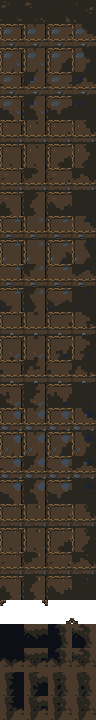
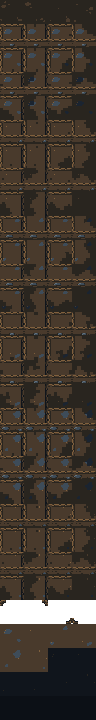
Make dungeon wall shading continuous across tile seams (#42)
Replace repeating directional cutouts with world-space contours sampling native PNG top, body and dark textures. Preserve angled coping and facades; compose walls at native resolution before fractional scaling to prevent hairline seams.

Re-record render.golden.json and render-calls.golden.json for the 20 intended sprite interior frames; all 85 other frames remain unchanged. Verify PNG texels, seam continuity, diagonal locality, fractional scaling, theme/toggle restoration and integrated build. Update art, rendering, testing and gameplay documentation.

Changed region(s): [[0.0, 0.8556, 1.0, 1.0]]

diff --git a/src/sprite-dungeon.ts b/src/sprite-dungeon.ts
@@ -3,7 +3,7 @@ import { tileRandom } from "./random.ts";
 import { themeAt, type TerrainTile } from "./themes.ts";
 import { kitImage } from "./sprite-kit.ts";
 import { wallAdjacencyMask } from "./area1-tileset.ts";
-import type { DungeonWallDepth } from "./wall-depth.ts";
+import { dungeonWallBands, type DungeonWallProfile } from "./wall-depth.ts";
 
 export const DUNGEON_MATERIALS = ["masonry", "stone", "earth"] as const;
 export type DungeonMaterial = typeof DUNGEON_MATERIALS[number];
@@ -24,7 +24,8 @@ export const DUNGEON_EDGE_ATLAS = "dungeon-edges";
 export const DUNGEON_BLEND_ATLAS = "dungeon-blends";
 export const DUNGEON_INFILL_ATLAS = "dungeon-infill";
 export const DUNGEON_CORE_FRAME = 12;
-export const DUNGEON_PADDING_FRAME = DUNGEON_CORNER_FRAME + 4;
+export const DUNGEON_CAP_FRAME = DUNGEON_CORNER_FRAME + 4;
+export const DUNGEON_SHADE_FRAME = DUNGEON_CAP_FRAME + DUNGEON_WALL_VARIANTS;
 
 /** Smooth, coordinate-hashed material patches, independent of generation
  * and its random stream. Both wall and floor at a position share material. */
@@ -101,26 +102,76 @@ export function drawDungeonFrame(c: CanvasRenderingContext2D, image: HTMLImageEl
   c.restore();
 }
 
+const wallImages = new Map<string, HTMLCanvasElement>();
+/** Compose at native resolution before scaling: clipping directly into a
+ * fractional-size ground cache can leave hairlines between pixel clusters. */
+export function drawDungeonGround(c: CanvasRenderingContext2D, tile: TerrainTile, diagonals: readonly DungeonDiagonal[] = [], profile?: DungeonWallProfile): boolean {
+  if (!tile.wall || !profile || profile.depth === 2 || typeof document === "undefined") return paintDungeonGround(c, tile, diagonals, profile);
+  const n = tile.neighbors;
+  const key = [tile.mode, themeAt(tile.mode, tile.height, tile.x, tile.y, tile.seed).decor, tile.seed, tile.x, tile.y,
+    n?.northWall, n?.eastWall, n?.southWall, n?.westWall, diagonals.join(","), profile.openings].join(":");
+  let canvas = wallImages.get(key);
+  if (!canvas) {
+    canvas = document.createElement("canvas"); canvas.width = canvas.height = 24;
+    const ctx = canvas.getContext("2d");
+    if (!ctx || !paintDungeonGround(ctx, tile, diagonals, profile)) return false;
+    if (wallImages.size >= 512) wallImages.clear();
+    wallImages.set(key, canvas);
+  }
+  c.save(); c.imageSmoothingEnabled = false; c.drawImage(canvas, 0, 0, 24, 24); c.restore();
+  return true;
+}
+
 /** Four quiet floors, six variants of sixteen wall shapes, and corners.
  * South-facing facades occupy eight pixels; north/side lips are shallow.
  * Everything stays inside the existing tile and collision footprint. */
-export function drawDungeonGround(c: CanvasRenderingContext2D, tile: TerrainTile, diagonals: readonly DungeonDiagonal[] = [], depth: DungeonWallDepth = 0, paddingMask = 15) {
+function paintDungeonGround(c: CanvasRenderingContext2D, tile: TerrainTile, diagonals: readonly DungeonDiagonal[], profile?: DungeonWallProfile) {
   const { mode, height, x, y, seed } = tile, tone = themeAt(mode, height, x, y, seed).decor;
   const images = imagesFor(mode, tone);
   if (!images) return false;
   const material = dungeonMaterial(mode, x, y, seed);
   const image = material === "earth" ? images.earth : images.surface;
-  if (tile.wall && depth === 2) { drawDungeonFrame(c, images.infill, DUNGEON_CORE_FRAME); return true; }
+  if (tile.wall && profile?.depth === 2) { drawDungeonFrame(c, images.infill, DUNGEON_CORE_FRAME); return true; }
   const edges = images.edges;
   const n = tile.neighbors;
   const mask = wallAdjacencyMask({ northWall: !!n?.northWall, eastWall: !!n?.eastWall, southWall: !!n?.southWall, westWall: !!n?.westWall });
-  const frame = tile.wall ? depth === 1 ? DUNGEON_PADDING_FRAME + paddingMask : DUNGEON_WALL_FRAME + dungeonWallVariant(x, y, seed) * 16 + mask : dungeonFloorFrame(x, y, seed);
-  drawDungeonFrame(c, image, frame);
-  const joins = dungeonMaterialJoins(tile, diagonals), blendVariant = dungeonWallVariant(x, y, seed) % 4;
-  if (joins.sides) drawMaterialBlend(c, images.earth, frame, images.blends, blendVariant * 20 + joins.sides);
-  for (let corner = 0; corner < 4; corner++) if (joins.corners & (1 << corner))
-    drawMaterialBlend(c, images.earth, frame, images.blends, blendVariant * 20 + 16 + corner);
-  if (tile.wall && !depth) {
+  const variant = dungeonWallVariant(x, y, seed);
+  const frame = tile.wall ? DUNGEON_WALL_FRAME + variant * 16 + mask : dungeonFloorFrame(x, y, seed);
+  const joins = dungeonMaterialJoins(tile, diagonals), blendVariant = variant % 4;
+  const surface = (frame: number) => {
+    drawDungeonFrame(c, image, frame);
+    if (joins.sides) drawMaterialBlend(c, images.earth, frame, images.blends, blendVariant * 20 + joins.sides);
+    for (let corner = 0; corner < 4; corner++) if (joins.corners & (1 << corner))
+      drawMaterialBlend(c, images.earth, frame, images.blends, blendVariant * 20 + 16 + corner);
+  };
+  if (tile.wall && profile) {
+    drawDungeonFrame(c, images.infill, DUNGEON_CORE_FRAME);
+    const bands = dungeonWallBands(profile, x, y, seed);
+    for (const band of [2, 1, 0]) {
+      c.save(); c.beginPath(); let visible = false;
+      for (let row = 0; row < 12; row++) for (let col = 0; col < 12;) {
+        if (bands[row * 12 + col] !== band) { col++; continue; }
+        const start = col++;
+        while (col < 12 && bands[row * 12 + col] === band) col++;
+        c.rect(start * 2, row * 2, (col - start) * 2, 2); visible = true;
+      }
+      if (visible) {
+        c.clip();
+        surface(band === 0 ? DUNGEON_CAP_FRAME + variant : band === 1 ? DUNGEON_WALL_FRAME + variant * 16 + 15 : DUNGEON_SHADE_FRAME + variant);
+      }
+      c.restore();
+    }
+    // Keep physical coping/facades independent of the inward shade contour.
+    if (mask !== 15) {
+      c.save(); c.beginPath();
+      if (!(mask & 1)) c.rect(0, 0, 24, 3);
+      if (!(mask & 2)) c.rect(21, 0, 3, 24);
+      if (!(mask & 4)) c.rect(0, 15, 24, 9);
+      if (!(mask & 8)) c.rect(0, 0, 3, 24);
+      c.clip(); surface(frame); c.restore();
+    }
+  } else surface(frame);
+  if (tile.wall && (!profile || profile.depth === 0)) {
     for (let corner = 0; corner < 4; corner++) {
       const diagonal = diagonals[corner];
       // A diagonal opening meets either two joined sides (concave) or two

diff --git a/tests/dungeon-sprites.test.ts b/tests/dungeon-sprites.test.ts
@@ -2,7 +2,7 @@ import assert from "node:assert/strict";
 import { readFileSync } from "node:fs";
 import test from "node:test";
 import { DUNGEON_ATLASES, DUNGEON_EDGE_ATLAS, DUNGEON_BLEND_ATLAS, DUNGEON_INFILL_ATLAS, DUNGEON_CORNER_FRAME, drawDungeonGround, dungeonAtlasId, dungeonDiagonals, dungeonFloorFrame, dungeonMaterial, dungeonMaterialJoins, dungeonWallVariant } from "../src/sprite-dungeon.ts";
-import { dungeonWallDepth, dungeonWallProfile } from "../src/wall-depth.ts";
+import { dungeonWallBands, dungeonWallDepth, dungeonWallProfile } from "../src/wall-depth.ts";
 import { paintTile, type BoardLook } from "../src/tile-painters.ts";
 import { WaterReflections, type ReflectionScene } from "../src/decor-reflections.ts";
 import type { TileDecor } from "../src/decor.ts";
@@ -30,11 +30,33 @@ test("wall depth follows real air across materials, including diagonals, while m
   }
   assert.equal(dungeonWallDepth({ tile: () => undefined }, 0, 0), 2, "world bounds do not create a false bright edge");
   const world = { tile: (x: number, y: number) => ({ kind: x === 0 && y === 0 ? "floor" as const : "wall" as const }) };
-  assert.deepEqual(dungeonWallProfile(world, 0, 2), { depth: 1, paddingMask: 4 }, "shade attaches toward the opening to the south");
-  assert.deepEqual(dungeonWallProfile(world, 2, 0), { depth: 1, paddingMask: 8 });
-  assert.deepEqual(dungeonWallProfile(world, 2, 2), { depth: 1, paddingMask: 12 }, "diagonal openings join both shadow bands");
-  assert.deepEqual(dungeonWallProfile(world, -2, -2), { depth: 1, paddingMask: 3 });
-  assert.deepEqual(dungeonWallProfile(world, 0, 1), { depth: 0, paddingMask: 0 });
+  assert.deepEqual(dungeonWallProfile(world, 0, 2), { depth: 1, openings: 1 << 2 }, "shade attaches toward the actual opening to the south");
+  assert.deepEqual(dungeonWallProfile(world, 2, 0), { depth: 1, openings: 1 << 10 });
+  assert.deepEqual(dungeonWallProfile(world, 2, 2), { depth: 1, openings: 1 }, "diagonal air retains its precise corner position");
+  assert.deepEqual(dungeonWallProfile(world, -2, -2), { depth: 1, openings: 1 << 24 });
+  assert.deepEqual(dungeonWallProfile(world, 0, 1), { depth: 0, openings: 1 << 7 });
+});
+
+test("wall contours cross seams continuously without repeating holes or illuminating entire diagonal edges", () => {
+  const straight = { tile: (_x: number, y: number) => ({ kind: y < 0 ? "floor" as const : "wall" as const }) };
+  for (const seed of [1, 1107, 8903]) for (let x = -8; x < 8; x++) {
+    const bands = (x: number, y: number) => dungeonWallBands(dungeonWallProfile(straight, x, y), x, y, seed);
+    for (const y of [0, 1]) {
+      const current = bands(x, y), next = bands(x + 1, y);
+      for (let row = 0; row < 12; row++)
+        assert.ok(Math.abs(current[row * 12 + 11] - next[row * 12]) <= 1, "adjacent native clusters cannot jump across shade levels at a tile seam");
+      for (let col = 0; col < 12; col++) for (let row = 1; row < 12; row++)
+        assert.ok(current[row * 12 + col] <= current[(row - 1) * 12 + col], "no isolated dark holes inside a connected band");
+    }
+    assert.ok([...bands(x, 0)].every(b => b < 2), "the exposed tile keeps a broad, solid material body");
+    assert.ok([...bands(x, 2)].every(b => b === 3), "farther solids are uniformly black");
+    assert.deepEqual(bands(x, 1), bands(x, 1), "contours are stable on redraw");
+  }
+  const corner = { tile: (x: number, y: number) => ({ kind: !x && !y ? "floor" as const : "wall" as const }) };
+  const bands = dungeonWallBands(dungeonWallProfile(corner, 2, 2), 2, 2, 1107);
+  assert.equal(bands[11 * 12], 2, "the nearby southwest corner receives the dark transition");
+  assert.equal(bands[11], 3, "the unrelated northeast corner stays black");
+  assert.ok([...bands].filter(b => b !== 3).length < 36, "one diagonal opening cannot light two whole tile edges");
 });
 
 test("Delve stone and earth form repeatable contiguous patches rather than independent tile noise", () => {
@@ -126,10 +148,8 @@ test("wall variation is seeded, diagonal corners read real openings, and corner 
     frames.length = 0;
     assert.deepEqual(dungeonMaterialJoins(floor, ["earth", "earth", "earth", "earth"]), { sides: 0, corners: 15 });
     assert.deepEqual(dungeonMaterialJoins({ ...floor, neighbors: { northWall: true, eastWall: true, southWall: true, westWall: true } }, ["earth", "earth", "earth", "earth"]), { sides: 0, corners: 0 }, "soil corners cannot cross a wall");
-    for (const depth of [1, 2] as const) {
-      frames.length = 0; drawDungeonGround(c, tile, [], depth, 4);
-      assert.deepEqual(frames, [depth === 2 ? 12 : 108], "directional material shade precedes the shared black core");
-    }
+    frames.length = 0; drawDungeonGround(c, tile, [], { depth: 2, openings: 0 });
+    assert.deepEqual(frames, [12], "deep solids use only the shared black core");
   } finally {
     if (original) Object.defineProperty(globalThis, "Image", original); else Reflect.deleteProperty(globalThis, "Image");
   }

diff --git a/src/wall-depth.ts b/src/wall-depth.ts
@@ -1,22 +1,50 @@
 import type { Tile } from "./entities.ts";
+import { tileRandom } from "./random.ts";
 
 export type DungeonWallDepth = 0 | 1 | 2;
+export type DungeonWallProfile = { depth: DungeonWallDepth; openings: number };
 
-/** The shaded band connects to the real opening instead of scattering
- * isolated fragments. Missing cells and all wall materials stay solid. */
-export function dungeonWallProfile(world: { tile(x: number, y: number): Tile | undefined }, x: number, y: number): { depth: DungeonWallDepth; paddingMask: number } {
-  let paddingMask = 0;
-  for (const radius of [1, 2] as const) for (let dy = -radius; dy <= radius; dy++) for (let dx = -radius; dx <= radius; dx++) {
-    if (Math.max(Math.abs(dx), Math.abs(dy)) !== radius) continue;
+/** Keep the actual 5x5 opening positions, not just four directions: one
+ * diagonal opening must never illuminate an entire unrelated tile edge. */
+export function dungeonWallProfile(world: { tile(x: number, y: number): Tile | undefined }, x: number, y: number): DungeonWallProfile {
+  let depth: DungeonWallDepth = 2, openings = 0;
+  for (let dy = -2; dy <= 2; dy++) for (let dx = -2; dx <= 2; dx++) {
+    if (!dx && !dy) continue;
     const tile = world.tile(x + dx, y + dy);
     if (!tile || tile.kind === "wall") continue;
-    if (radius === 1) return { depth: 0, paddingMask: 0 };
-    if (dy === 2) paddingMask |= 1;
-    if (dx === 2) paddingMask |= 2;
-    if (dy === -2) paddingMask |= 4;
-    if (dx === -2) paddingMask |= 8;
+    openings |= 1 << ((dy + 2) * 5 + dx + 2);
+    if (Math.max(Math.abs(dx), Math.abs(dy)) === 1) depth = 0;
+    else if (depth === 2) depth = 1;
   }
-  return { depth: paddingMask ? 1 : 2, paddingMask };
+  return { depth, openings };
 }
 
 export const dungeonWallDepth = (world: { tile(x: number, y: number): Tile | undefined }, x: number, y: number) => dungeonWallProfile(world, x, y).depth;
+
+/** Two-pixel clusters cut literal PNG textures into three hard shade bands.
+ * Distance is measured to air rectangles in world space, so contours cross
+ * tile seams and round corners continuously, including negative coordinates.
+ * Only the contour varies; lighting and texture orientation never rotate. */
+export function dungeonWallBands(profile: DungeonWallProfile, x: number, y: number, seed: number): Uint8Array {
+  const air: [number, number][] = [];
+  for (let dy = -2; dy <= 2; dy++) for (let dx = -2; dx <= 2; dx++)
+    if (profile.openings & (1 << ((dy + 2) * 5 + dx + 2))) air.push([dx * 24, -dy * 24]);
+  const bands = new Uint8Array(144);
+  // A native tile fits within one noise cell; sample its corners just once.
+  const ix = Math.floor(x / 2), iy = Math.floor(-y / 2);
+  const a = tileRandom(ix, iy, seed ^ 0x48d31), b = tileRandom(ix + 1, iy, seed ^ 0x48d31);
+  const c = tileRandom(ix, iy + 1, seed ^ 0x48d31), d = tileRandom(ix + 1, iy + 1, seed ^ 0x48d31);
+  for (let py = 0; py < 24; py += 2) for (let px = 0; px < 24; px += 2) {
+    let distance = Infinity;
+    for (const [ax, ay] of air) {
+      const dx = Math.max(ax - px - 1, px + 1 - ax - 24, 0);
+      const dy = Math.max(ay - py - 1, py + 1 - ay - 24, 0);
+      distance = Math.min(distance, Math.sqrt(dx * dx + dy * dy));
+    }
+    // Broad, gently stepped contours rather than per-tile cutout stamps.
+    const u = (x * 24 + px + 1) / 48 - ix, v = (-y * 24 + py + 1) / 48 - iy;
+    const relief = (((a + (b - a) * u) * (1 - v) + (c + (d - c) * u) * v) - .5) * 6;
+    bands[py / 2 * 12 + px / 2] = distance <= 14 + relief ? 0 : distance <= 28 + relief ? 1 : distance <= 42 + relief ? 2 : 3;
+  }
+  return bands;
+}

diff --git a/src/tile-painters.ts b/src/tile-painters.ts
@@ -87,8 +87,8 @@ function paintGround(c: CanvasRenderingContext2D, world: TileWorld, t: Tile, x: 
   const wall = t.kind === "wall";
   const terrain = { mode: look.mode, height: look.height, seed: look.seed, x, y, wall, empty: t.kind === "floor", neighbors };
   if (look.styledSprites && !look.spritesOff) {
-    const profile = wall ? dungeonWallProfile(world, x, y) : { depth: 0 as const, paddingMask: 0 };
-    if (drawDungeonGround(c, terrain, dungeonDiagonals(world, look.mode, x, y, look.seed), profile.depth, profile.paddingMask)) return true;
+    const profile = wall ? dungeonWallProfile(world, x, y) : undefined;
+    if (drawDungeonGround(c, terrain, dungeonDiagonals(world, look.mode, x, y, look.seed), profile)) return true;
   }
   // Every biome has a PNG floor/wall set. Images load asynchronously; until
   // ready (or if an asset fails), the procedural renderer remains a complete

diff --git a/docs/agents/rendering.md b/docs/agents/rendering.md
@@ -30,7 +30,7 @@ The active forest draws dynamic back grass, small foliage, crowns, buildings, ro
 Wall foliage remains with decoration off, while optional floor plants and dynamic grass follow that setting.
 Sprites off, board sprites off and other Game themes retain their original forest; UI themes gate the interface independently, and Defend is excluded from this forest extension.
 `sprite-dungeon.ts` supplies dedicated interior PNG materials: fitted Tower masonry and contiguous Delve stone/earth patches, selected with coordinate hashes independent of generation.
-Twenty-one 96 × 720 atlases contain four 24-pixel floor variants, six versions of all sixteen wall-neighbor masks, four native six-pixel corner overlays and sixteen directional shade joins: ten biome ramps for masonry, ten for rough stone and one brown earth set.
+Twenty-one 96 × 720 atlases contain four 24-pixel floors, six versions of all sixteen wall-neighbor masks, four native six-pixel corners, six full tops, six dark tops and four reserved core frames: ten biome ramps for masonry, ten for rough stone and one brown earth set.
 `dungeonWallVariant` chooses six authored top and south-facing facade pairs by coordinate hash, so long connected walls have seeded variety without rotating their lighting or altering geometry.
 Masonry varies broad fitted blocks and worn joints; bedrock uses continuous quiet planes with sparse fractures, while earth varies compact layers and embedded stone.
 A shared 96 × 216 atlas retains the original contact-shadow masks and soil reference pieces.
@@ -41,12 +41,16 @@ Masked material bakes are cached with a 512-entry limit; no gradients, soft alph
 Wall corners draw only where a diagonal opening meets two joined or two exposed sides; straight edges and missing diagonal terrain retain their existing lips.
 Diagonal material patches draw where earth touches stone at a corner without an existing cardinal blend or a change between open floor and blocking wall.
 Walls expose shallow three-pixel north/side lips and eight-pixel south-facing facades, keeping a steep top-down angle inside the existing collision tile; joined sides have no facade.
-Exposed wall texture reaches up to eighteen pixels into its tile over a full shaded material body, with stepped inward contours.
+Exposed wall texture recedes through three hard shade levels, with connected two-pixel contours and a broad material body.
 The shadow body continues beyond the bright rim, so thin walls remain solid and wider walls recede through a fuller intermediate shade before black.
-`wall-depth.ts` checks two Chebyshev rings of actual world tiles: neighboring air exposes the wall, air two tiles away selects directional shaded material, and farther interiors use a flat shared near-black PNG.
-`dungeonWallProfile` supplies the north/east/south/west mask of those second-ring openings; diagonal air combines both bands and missing cells never create a false edge.
+`wall-depth.ts` records actual openings in a 5 × 5 neighborhood, treating neighboring air as exposed wall, second-ring air as transition and farther solids as core.
+`dungeonWallBands` measures native pixel distance to those air rectangles, preserving the position of diagonal openings instead of illuminating two entire edges.
 Every material counts as connected solid, missing cells remain solid, and doors/items/stairs count as air; generation and collision are unchanged.
-Each material atlas appends sixteen shade masks at `DUNGEON_PADDING_FRAME`, assembled from four separately lit directional PNGs and tinted with its biome ramp.
+The contour thresholds lie at 14, 28 and 42 native pixels from air, with a small coordinate-hashed displacement interpolated over 48-pixel world cells to avoid repeating tile-shaped cutouts.
+Binary clipping selects literal PNG texels from full tops at `DUNGEON_CAP_FRAME`, the existing shaded wall body and dark tops at `DUNGEON_SHADE_FRAME`; only geometry varies, never color interpolation or lighting direction.
+Physical coping and south-facing facades draw separately over the shade bands, retaining their original height and upper-left lighting.
+Each complete wall is composed once at native 24 × 24 resolution before nearest-neighbor scaling, so fractional ground-cache transforms cannot antialias the internal clipping boundaries.
+Wall-image bakes have a 512-entry cache keyed by art, seed, coordinates and actual opening geometry.
 Material blending continues through the shaded band as well as exposed wall tops.
 `dungeon-infill.png` retains the common core and earlier sparse reference pieces (96 × 96); the deep core stays flat and is never biome-tinted.
 The styled decor bake skips core walls so moss cannot repaint their flat interiors; Sprites off and other Game themes retain their original decor.
@@ -59,7 +63,7 @@ The water mirror receives the effective board-art key too, refreshing cached wal
 Its corner components come from `assets/game-sprites/dungeon-corners.png`, sharing the existing native grid, upper-left light and restricted material ramps.
 Its six top/facade pairs per material come from `assets/game-sprites/dungeon-wall-variations.png`; floor, coping and corner components retain their existing sources.
 The shared core and stepped blend masks come from `assets/game-sprites/dungeon-material-blends.png`.
-The fuller, connected shade bands come from `assets/game-sprites/dungeon-wall-shading.png`, with fixed upper-left light in each authored direction.
+The older `assets/game-sprites/dungeon-wall-shading.png` remains an art reference; repeated directional cutout stamps are no longer deployed.
 
 Board drawing (`Renderer`, frames, lighting, decor, popups, tile caches, the forest outside, weather), the render goldens, and the Medieval and Neon themes.
 

diff --git a/docs/art/ui-sprites.md b/docs/art/ui-sprites.md
@@ -65,7 +65,7 @@ The forest loads its materials and foliage together before removing the older ba
 The old SVG and PNG artwork stays available for unloaded images, Sprites off and theme overrides.
 Tower interiors use native fitted masonry floors and connected walls; Delve uses rough bedrock and compact earth for both floors and walls, with coordinate-hashed contiguous material patches.
 The [dungeon material source](../../assets/game-sprites/dungeon-materials.png) supplies four floor variations, wall-top variations, south-facing facade strips and coping for each material, plus stepped soil/contact strips.
-Twenty-one 96 × 720 deployed PNG atlases hold four floors, six variations of sixteen wall-neighbor frames, four corner overlays and sixteen directional shade joins each.
+Twenty-one 96 × 720 deployed PNG atlases hold four floors, six variations of sixteen wall-neighbor frames, four corners, six full tops, six dark tops and four reserved core frames each.
 One shared 96 × 216 PNG retains sixteen soil borders, sixteen floor-contact masks and four diagonal soil corners.
 Two additional atlases add eighty material masks and sixteen infill/core frames (2,652 native frames total).
 The [wall variation source](../../assets/game-sprites/dungeon-wall-variations.png) supplies six distinct top/facade pairs per material: broad fitted masonry, continuous bedrock with sparse fractures and layered earth with embedded stones.
@@ -77,9 +77,11 @@ Ten palette ramps retain each masonry and rock biome's identity, while earth kee
 Use axis-aligned 24-pixel tiles seen at a steep top-down angle, visible wall tops, shallow three-pixel north/side lips and eight-pixel south-facing wall facades; no isometric diamonds or vanishing points.
 Connected walls hide shared edges, and floor centers remain quiet and flat beneath items; soil borders have stepped binary transparency and contact shadows stay inside the floor tile.
 The [material blend source](../../assets/game-sprites/dungeon-material-blends.png) supplies the original infill references and four stepped transition silhouettes.
-The [wall shading source](../../assets/game-sprites/dungeon-wall-shading.png) adds connected north/east/south/west shadow bands for each material, with fixed lighting and native pixels.
-Native cluster cleanup removes single-pixel sampling speckle before palette remapping; shadow shapes stay broad and connected.
-Wall texture extends up to eighteen pixels inward over a full shaded body, followed by a connected medium-dark band before the flat black core; do not reduce the visible wall to a thin outline.
+The [wall shading source](../../assets/game-sprites/dungeon-wall-shading.png) is retained as reference; its repeated directional cutout stamps are replaced by continuous contours cut from the original wall textures.
+Shade boundaries follow distance to real open tiles in world space, using two-pixel clusters and small variations over 48-pixel cells; neighboring tiles must never restart the shadow pattern.
+Full PNG top textures recede through three hard palette levels at approximately 14, 28 and 42 pixels from air, then meet the flat black core; preserve broad walls without repeating holes, isolated fragments or illuminated whole edges from one diagonal opening.
+Coping and facades remain independent of inward shading, and every shade level uses literal PNG texels through binary clipping, without blur or interpolated colors.
+Compose the complete wall at native resolution before scaling it once with nearest-neighbor sampling; never clip separate shade bands after a fractional display transform.
 The [Celeste tileset analysis](https://aran.ink/posts/celeste-tilesets) informed the edge/padding/core treatment: material detail hugs exposed surfaces, shaded material bridges the inward edge, and deep solids share one flat near-black fill.
 Our original PNGs retain the angled top-down perspective and native 24-pixel grid; wall depth follows actual open tiles across all materials.
 Earth overlaps stone through binary PNG masks on floors and exposed walls, replacing square material seams without blur, dithering or a rim between connected walls.
@@ -136,7 +138,7 @@ Run `node --experimental-transform-types tools/prepare-combat-sprites.mjs` for t
 Run `node --experimental-transform-types tools/prepare-board-marks.mjs` for Target, Ignore, skipped and blocked marks.
 Run `node --experimental-transform-types tools/prepare-environment-sprites.mjs` for moss, water, vine leaves, flowers and glowing cap variants.
 Run `node --experimental-transform-types tools/prepare-forest-sprites.mjs` for the twenty forest materials/objects and two enormous entrance bases; measured crops, binary alpha and palette normalization reproduce the deployed PNGs.
-Run `node --experimental-transform-types tools/prepare-dungeon-sprites.mjs` for the interior material atlases, all six connected-wall variants, directional shaded transitions, ragged material masks, dark core, and the cardinal/diagonal corner and contact pieces.
+Run `node --experimental-transform-types tools/prepare-dungeon-sprites.mjs` for the interior material atlases, all six connected-wall variants, full top/shade textures, ragged material masks, dark core, and the cardinal/diagonal corner and contact pieces.
 Regenerate the original font with `python tools/prepare-pixel-font.py` using FontTools with WOFF2 support (`fonttools[woff]`); no font-building dependency is needed at runtime.
 The full game exporter preserves dungeon, forest, environment, combat, badge, Shrine, Equipment UI and UI-detail assets; rerun their own exporter when a source atlas changes.
 That exporter also packs the terrain atlas and produces `src/sprite-terrain-index.ts`.

diff --git a/docs/agents/testing.md b/docs/agents/testing.md
@@ -51,6 +51,7 @@ The appended `spriteForestTower` and `spriteForestDelve` scenes add ten browser 
 `tests/dungeon-sprites-browser.mjs` starts its own server for literal floor/relief PNG texels, transparent transition centers, native atlases, delayed/failed material loads and real Tower/Delve interiors at phone/desktop widths.
 It changes sprite, board, decoration and independent theme settings on a reused Renderer, verifies exact legacy-pixel restoration and checks that drawing never changes tiles; its monotonically advancing warmup settles the Delve camera and older image caches before comparing frames.
 `tests/dungeon-sprites.test.ts` checks atlas dimensions, contiguous stone/earth patches and all sixteen native wall-frame selections across six seeded variants, including the floor under items and doors.
-It also checks seeded wall variation, two-ring wall depth and directional opening masks, diagonal opening queries, convex/concave corner eligibility, straight-side and world-edge exclusions, and material patches staying out of blocking walls.
-The browser suite checks six distinct exposed north rims and south-facing facades, flat shared black cores, broad shaded wall bodies and directional shade receding toward black, literal masked material texels, clear blend centers and six-pixel corner bounds, then reviews the expanded native sheets.
+It also checks seeded wall variation, two-ring wall depth and exact opening positions, continuous shade contours across positive/negative tile seams, monotonic straight-wall shading without isolated holes, diagonal locality, convex/concave corner eligibility, world-edge exclusions and material patches staying out of blocking walls.
+The browser suite checks six distinct exposed north rims and south-facing facades, flat shared black cores, broad shaded wall bodies, literal native texels in every contour band and fully rendered adjoining Tower/Delve walls without repeated black cutouts or transparent seams.
+It also verifies literal material blends, clear blend centers, six-pixel corner bounds and pixel-exact wall scaling at fractional sizes/offsets, then reviews the native sheets.
 The appended `spriteDungeonMasonry` and `spriteDungeonCave` golden scenes cover real interior layouts; the existing `spriteCombat` and `spriteEnvironment` frames change only for the intended new ground/relief.

diff --git a/docs/gameplay/first-steps.md b/docs/gameplay/first-steps.md
@@ -20,7 +20,8 @@ Inside the Tower, the Classic sprite kit uses fitted stone floors and joined mas
 In the Delve, rough stone and packed earth form adjoining patches of floors and walls, with stepped soil edges and matching biome colors.
 Walls have six variations of their tops and south-facing faces, with fitted masonry, broad fractured bedrock or packed earth, plus matching diagonal corner pieces.
 Earth and stone interlock at their edges and diagonal joins on both floors and exposed walls.
-Walls keep a broad textured edge and a full shaded body, then a connected band of darker stone or earth recedes into the shared black interior.
+Walls keep a broad textured edge and recede through connected shades of stone or earth into the shared black interior.
+The shading follows room boundaries continuously across tiles and around corners, while south-facing wall faces keep their visible height.
 These interior tiles remain with environmental decoration off; torchlight follows the selected floor's seams, and movement, doors and map layouts stay the same.
 
 ## The first runs
